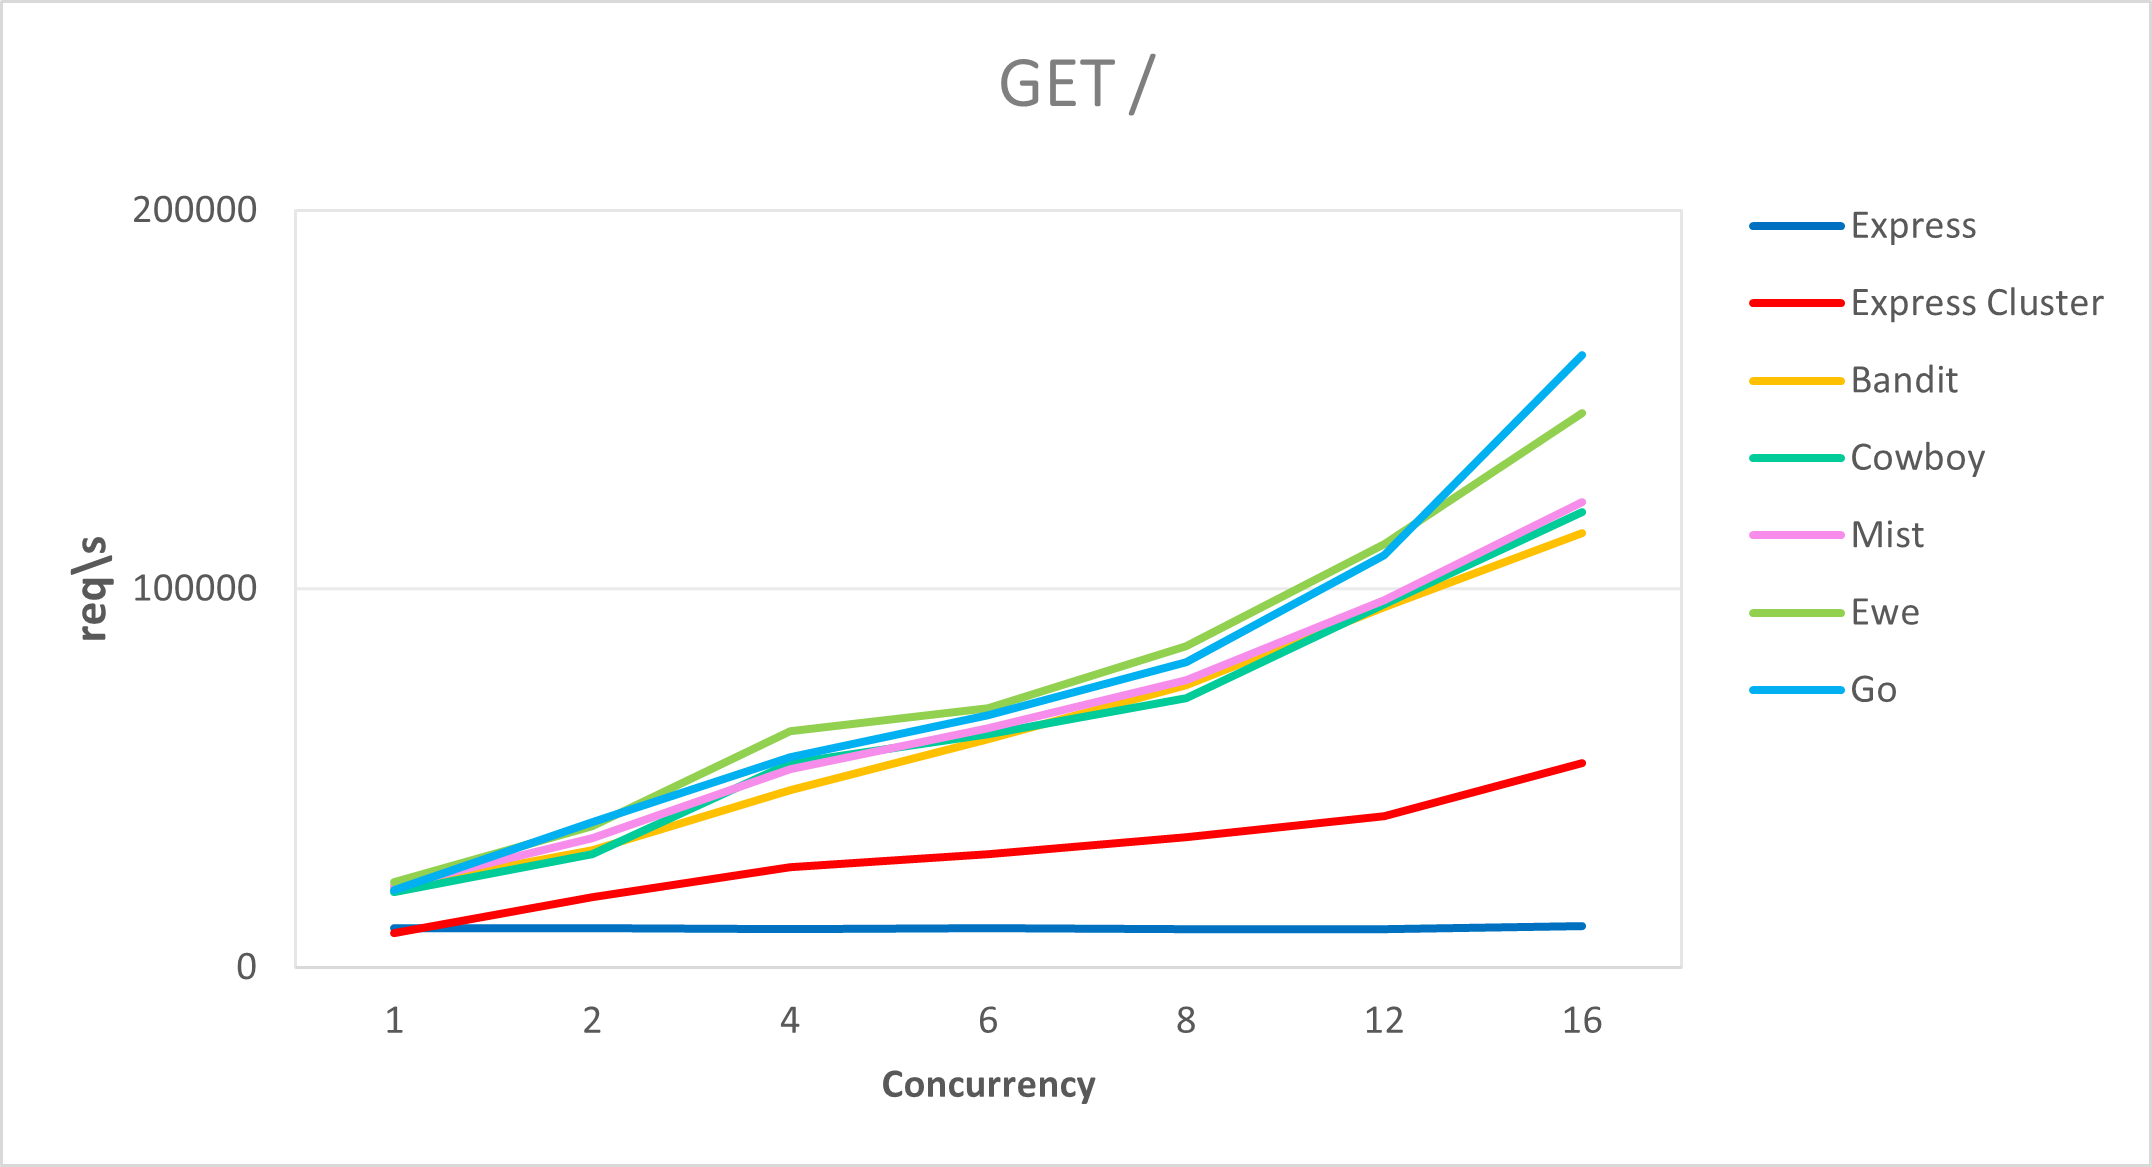
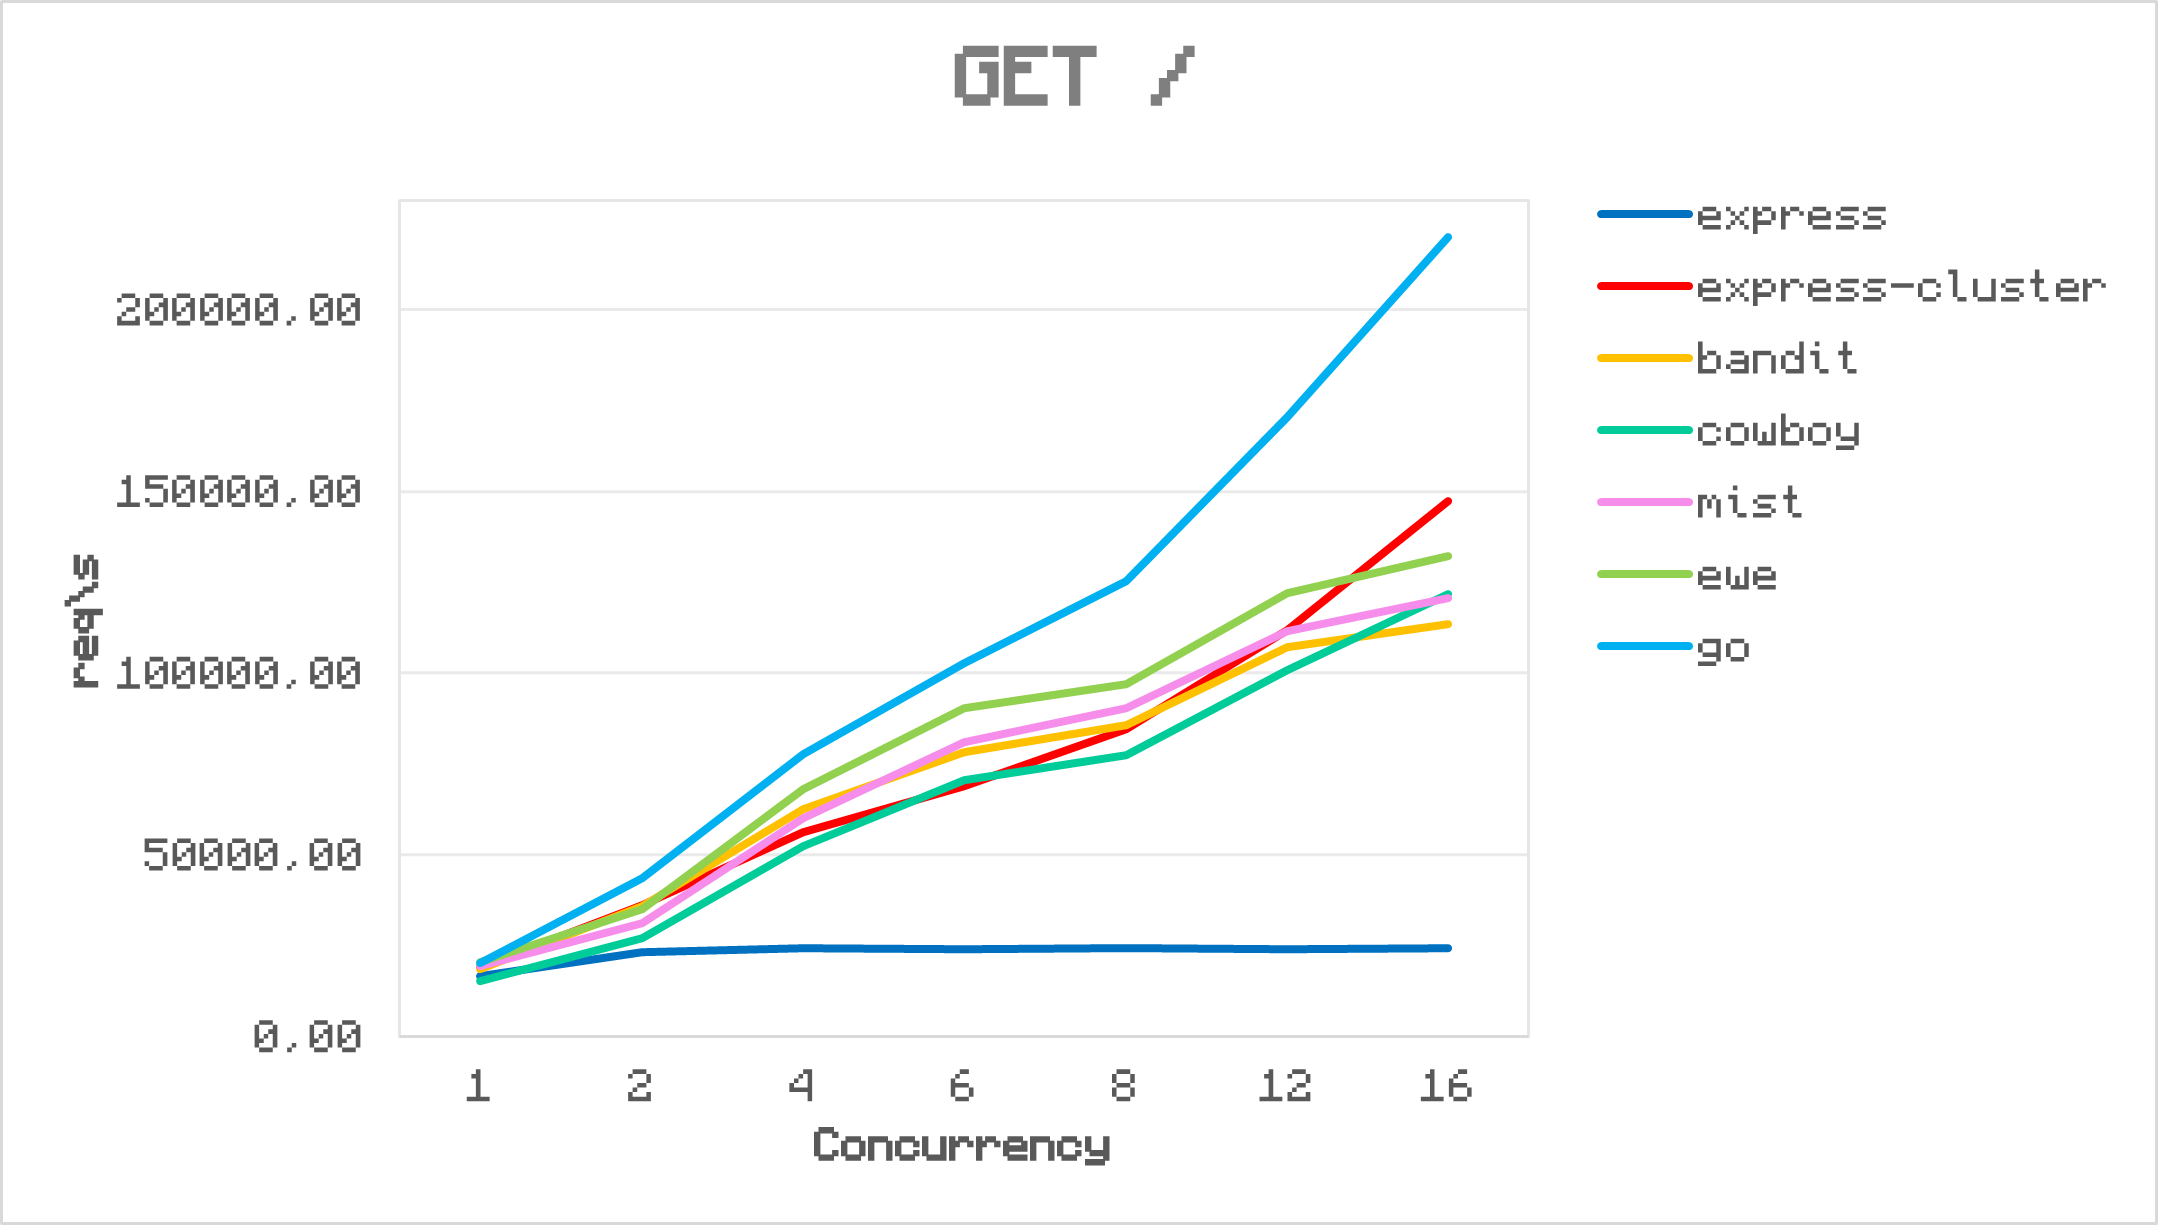
update benchmarks

diff --git a/glolang/main.go b/glolang/main.go
@@ -2,32 +2,27 @@ package main
 
 import (
 	"fmt"
-	"io"
 	"net/http"
-
-	"github.com/gin-gonic/gin"
+	"strings"
 )
 
 func main() {
-	gin.SetMode(gin.ReleaseMode)
-	router := gin.New()
+	mux := http.NewServeMux()
 
-	router.GET("/", func(c *gin.Context) {
-		c.Status(http.StatusOK)
+	mux.HandleFunc("/", func(w http.ResponseWriter, r *http.Request) {
+		w.Write([]byte{})
+	})
+	mux.HandleFunc("/user/", func(w http.ResponseWriter, r *http.Request) {
+		id := strings.TrimPrefix(r.URL.Path, "/user/")
+		w.Write([]byte(id))
+	})
+	mux.HandleFunc("/user", func(w http.ResponseWriter, r *http.Request) {
+		r.Write(w)
 	})
 
-	router.GET("/user/:id", func(c *gin.Context) {
-		id := c.Param("id")
-		c.String(http.StatusOK, id)
-	})
-
-	router.POST("/user", func(c *gin.Context) {
-		if c.Request.Body != nil {
-			io.Copy(c.Writer, c.Request.Body)
-		}
-	})
-
-	if err := router.Run(":8080"); err != nil {
-		fmt.Printf("Failed to start server: %v", err)
+	// err := http.ListenAndServeTLS(":3334", "/home/alex/gleams/mist/domain.crt", "/home/alex/gleams/mist/domain.key", mux)
+	err := http.ListenAndServe(":8080", mux)
+	if err != nil {
+		fmt.Printf("Failed to start:  %w", err)
 	}
 }

diff --git a/README.md b/README.md
@@ -1,4 +1,4 @@
-# REDO: http-benchmarks 
+# http-benchmarks 
 
 This repo is for comparing [ewe](https://github.com/vshakitskiy/ewe) to some other webserver libraries.
 
@@ -20,7 +20,7 @@ The frameworks tested are:
   - Bandit (OTP 28 / Elixir 1.18.4)
   - Cowboy (OTP 28)
   - Mist (OTP 28)
-  - Go (1.24.6)
+  - Go (1.25)
 
 You can view the tests in `run.sh` but the cases are:
 
@@ -36,38 +36,38 @@ Each application was tested with [h2load](https://nghttp2.org/documentation/h2lo
 
 |Framework|Concurrency 1|2|4|6|8|12|16
 |---|---|---|---|---|---|---|---
-|express|10262.17req/s|10440.73req/s|10095.33req/s|10252.9req/s|10213.7req/s|10193.37req/s|10836.6req/s
-|express-cluster|9040.6req/s|18556.2req/s|26619.97req/s|29934.27req/s|34312.43req/s|39962.37req/s|54007.83req/s
-|bandit|21220.7req/s|31070.7req/s|46876.63req/s|60402.7req/s|74602.8req/s|95251.17req/s|114665.77req/s
-|cowboy|19878.9req/s|29939.4req/s|54095.3req/s|61516.9req/s|71267.57req/s|95876.23req/s|120338.03req/s
-|mist|21587.33req/s|34199.53req/s|52467.7req/s|63217.8req/s|75828.63req/s|96903req/s|122978.43req/s
-|ewe|22622.6req/s|37327req/s|62513.17req/s|68573.03req/s|84805.13req/s|111732.57req/s|146403.47req/s
-|go|20551.33req/s|38314.13req/s|55431.63req/s|66767.83req/s|80669.17req/s|108965.77req/s|161852.13req/s
+|express|16622.87 req/s|23319.07 req/s|24219.07 req/s|24152.57 req/s|24273.47 req/s|24081.53 req/s|24223.4 req/s
+|express-cluster|19152.93 req/s|36192.23 req/s|56294.97 req/s|68761 req/s|84520.2 req/s|111903.83 req/s|147244.6 req/s
+|bandit|18451.33 req/s|35776.73 req/s|62642.7 req/s|78221.73 req/s|85612.57 req/s|107025.13 req/s|113417.9 req/s
+|cowboy|15166.73 req/s|26977.5 req/s|52466.73 req/s|70499.67 req/s|77445.8 req/s|100939.17 req/s|121844.73 req/s
+|mist|19118.4 req/s|31264.07 req/s|59846.37 req/s|80669.93 req/s|88640.33 req/s|112679.67 req/s|120934.63 req/s
+|ewe|20415.9 req/s|34935.93 req/s|67941.63 req/s|90494.83 req/s|96863.83 req/s|122107.63 req/s|132089.97 req/s
+|go|20136.63 req/s|43623.03 req/s|77713.4 req/s|102672.6 req/s|125250.87 req/s|170414.87 req/s|220032.57 req/s
 
 							
 #### `GET /user/:id`
 
 |Framework|Concurrency 1|2|4|6|8|12|16
 |---|---|---|---|---|---|---|---
-|express|8805.07 req/s|9267.17 req/s|9191.93 req/s|9179.43 req/s|9164.9 req/s|9144.8 req/s|9142.43 req/s
-|express-cluster|7951.67 req/s|16508.23 req/s|25358 req/s|27811.77 req/s|27519.47 req/s|33401.2 req/s|41366.3 req/s
-|bandit|20707.9 req/s|31308.63 req/s|45332.47 req/s|58307.2 req/s|68275.43 req/s|87301.57 req/s|107105.7 req/s
-|cowboy|19884.97 req/s|30350.73 req/s|54171.7 req/s|58189.17 req/s|68643.27 req/s|89929.47 req/s|109594.37 req/s
-|mist|20990.93 req/s|31741.47 req/s|52588.97 req/s|62640.33 req/s|71829.6 req/s|92688.7 req/s|120267.03 req/s
-|ewe|21631.1 req/s|35824.7 req/s|53838.03 req/s|64705.87 req/s|73291.7 req/s|102289.93 req/s|129006.33 req/s
-|go|19772.03 req/s|38465.93 req/s|54049.13 req/s|63641.73 req/s|72757.53 req/s|102563.73 req/s|144941.8 req/s
+|express|15161.6 req/s|20726.9 req/s|21316.63 req/s|21480.17 req/s|21568.87 req/s|21686.7 req/s|21472.57 req/s
+|express-cluster|17143.53 req/s|33146.13 req/s|58829.93 req/s|65958.13 req/s|76937.13 req/s|99461.33 req/s|123224.07 req/s
+|bandit|17838.57 req/s|34603.83 req/s|60589.77 req/s|75532.83 req/s|83675.93 req/s|104261.1 req/s|110191.77 req/s
+|cowboy|15135.77 req/s|26452.37 req/s|51294.5 req/s|71113.37 req/s|75720.07 req/s|99768 req/s|120167.17 req/s
+|mist|18646.03 req/s|30039.97 req/s|59363.47 req/s|79538.53 req/s|87675.73 req/s|108740.07 req/s|118126.83 req/s
+|ewe|20563.13 req/s|34599.6 req/s|65303.43 req/s|88377.73 req/s|94079.57 req/s|119310.53 req/s|127840.1 req/s
+|go|19430.5 req/s|43080.43 req/s|75616.13 req/s|99338.6 req/s|121077.8 req/s|164438.77 req/s|210094.2 req/s
 							
 #### `POST /user`
 
 |Framework|Concurrency 1|2|4|6|8|12|16
 |---|---|---|---|---|---|---|---
-|express|12137.33 req/s|12576.37 req/s|12482.7 req/s|12208.4 req/s|11937.6 req/s|12137.07 req/s|12110.27 req/s
-|express-cluster|9921.73 req/s|21332.43 req/s|28348.9 req/s|33581.93 req/s|34791.87 req/s|40195.43 req/s|58178.47 req/s
-|bandit|18304.07 req/s|27906.5 req/s|40354.37 req/s|51985.77 req/s|59610.87 req/s|73520.97 req/s|87108.8 req/s
-|cowboy|15957 req/s|20892.23 req/s|33816.87 req/s|44301.57 req/s|48355.63 req/s|62793.3 req/s|79075.3 req/s
-|mist|18761.67 req/s|31251.33 req/s|49224.63 req/s|53077.8 req/s|63018.83 req/s|79021.6 req/s|101143.3 req/s
-|ewe|19562.13 req/s|30995.63 req/s|47461.1 req/s|56096.17 req/s|66331.93 req/s|86865.23 req/s|104207.17 req/s
-|go|17343.33 req/s|28013.37 req/s|37128.53 req/s|38905.5 req/s|35441.17 req/s|37029.2 req/s|41938.3 req/s
+|express|19129.3 req/s|29041.5 req/s|32519.7 req/s|31833.93 req/s|30493.93 req/s|30447.7 req/s|30520.03 req/s
+|express-cluster|19995.37 req/s|39695.33 req/s|69727.73 req/s|81066.57 req/s|99230.27 req/s|123195.87 req/s|152481.27 req/s
+|bandit|14569.93 req/s|28827.9 req/s|47527.17 req/s|60675.73 req/s|68327.67 req/s|85675.13 req/s|89894.93 req/s
+|cowboy|15738.73 req/s|21853.47 req/s|41168.27 req/s|55406.7 req/s|62861.23 req/s|82749.07 req/s|99594.2 req/s
+|mist|16665.27 req/s|31531.37 req/s|53419.8 req/s|71256.9 req/s|79508.8 req/s|96559.5 req/s|105499.8 req/s
+|ewe|17103.53 req/s|28413.4 req/s|56640.4 req/s|74901.13 req/s|82842.77 req/s|103570.33 req/s|110488.5 req/s
+|go|15648.87 req/s|31212.33 req/s|54389.67 req/s|67822.47 req/s|65711.9 req/s|63555.73 req/s|72705.97 req/s
 
 ![GET /](/results/get.png)
 
